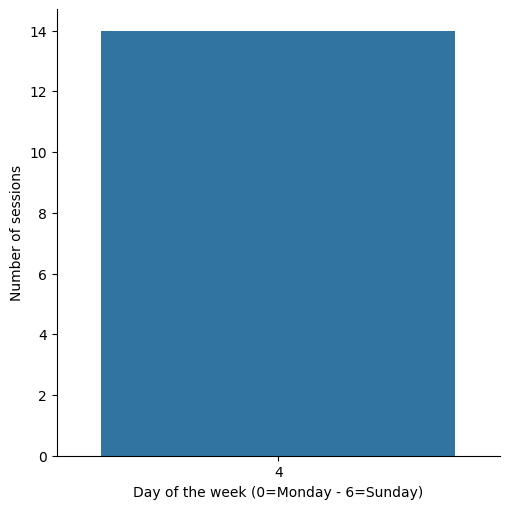
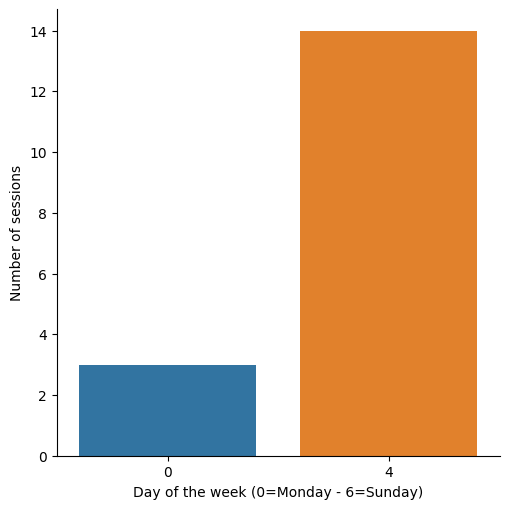
"Stats generated 2021-10-05"

diff --git a/all/2021/10/weekdays/0/index.html b/all/2021/10/weekdays/0/index.html
@@ -1,0 +1,29 @@
+<!DOCTYPE html>
+<html>
+  <head>
+    <meta charset="utf-8"/>
+    <title>Mondays October 2021</title>
+    <link rel="stylesheet" href="../../../../../styles.css"/>
+  </head>
+  <body>
+    <div id="container">
+      <nav>
+        <ul>
+          
+            <li><a href="../../">October 2021</a></li>
+            <li class="separator"></li>
+          
+          
+        </ul>
+      </nav>
+      <main>
+        <h1>Mondays October 2021</h1>
+        
+          <h2>Number of sessions per hour</h2>
+          <img src="sessions.png" alt="Number of sessions per hour"/>
+        
+        
+      </main>
+    </div>
+  </body>
+</html>

diff --git a/all/2021/10/days/4/index.html b/all/2021/10/days/4/index.html
@@ -1,0 +1,29 @@
+<!DOCTYPE html>
+<html>
+  <head>
+    <meta charset="utf-8"/>
+    <title>4 October 2021</title>
+    <link rel="stylesheet" href="../../../../../styles.css"/>
+  </head>
+  <body>
+    <div id="container">
+      <nav>
+        <ul>
+          
+            <li><a href="../../">October 2021</a></li>
+            <li class="separator"></li>
+          
+          
+        </ul>
+      </nav>
+      <main>
+        <h1>4 October 2021</h1>
+        
+          <h2>Number of sessions per hour</h2>
+          <img src="sessions.png" alt="Number of sessions per hour"/>
+        
+        
+      </main>
+    </div>
+  </body>
+</html>

diff --git a/all/2021/10/index.html b/all/2021/10/index.html
@@ -19,6 +19,10 @@
             
           
             
+              <li><a href="weekdays/0/">Monday</a></li>
+            
+          
+            
               <li><a href="weekdays/4/">Friday</a></li>
             
           
@@ -28,6 +32,10 @@
           
             
               <li><a href="days/1/">1</a></li>
+            
+          
+            
+              <li><a href="days/4/">4</a></li>
             
           
         </ul>

diff --git a/all/2021/index.html b/all/2021/index.html
@@ -143,9 +143,9 @@
                   
                     <td>10.0</td>
                   
-                    <td>14.0</td>
+                    <td>17.0</td>
                   
-                    <td>5.37116505</td>
+                    <td>5.924751466666667</td>
                   
                 </tr>
               
